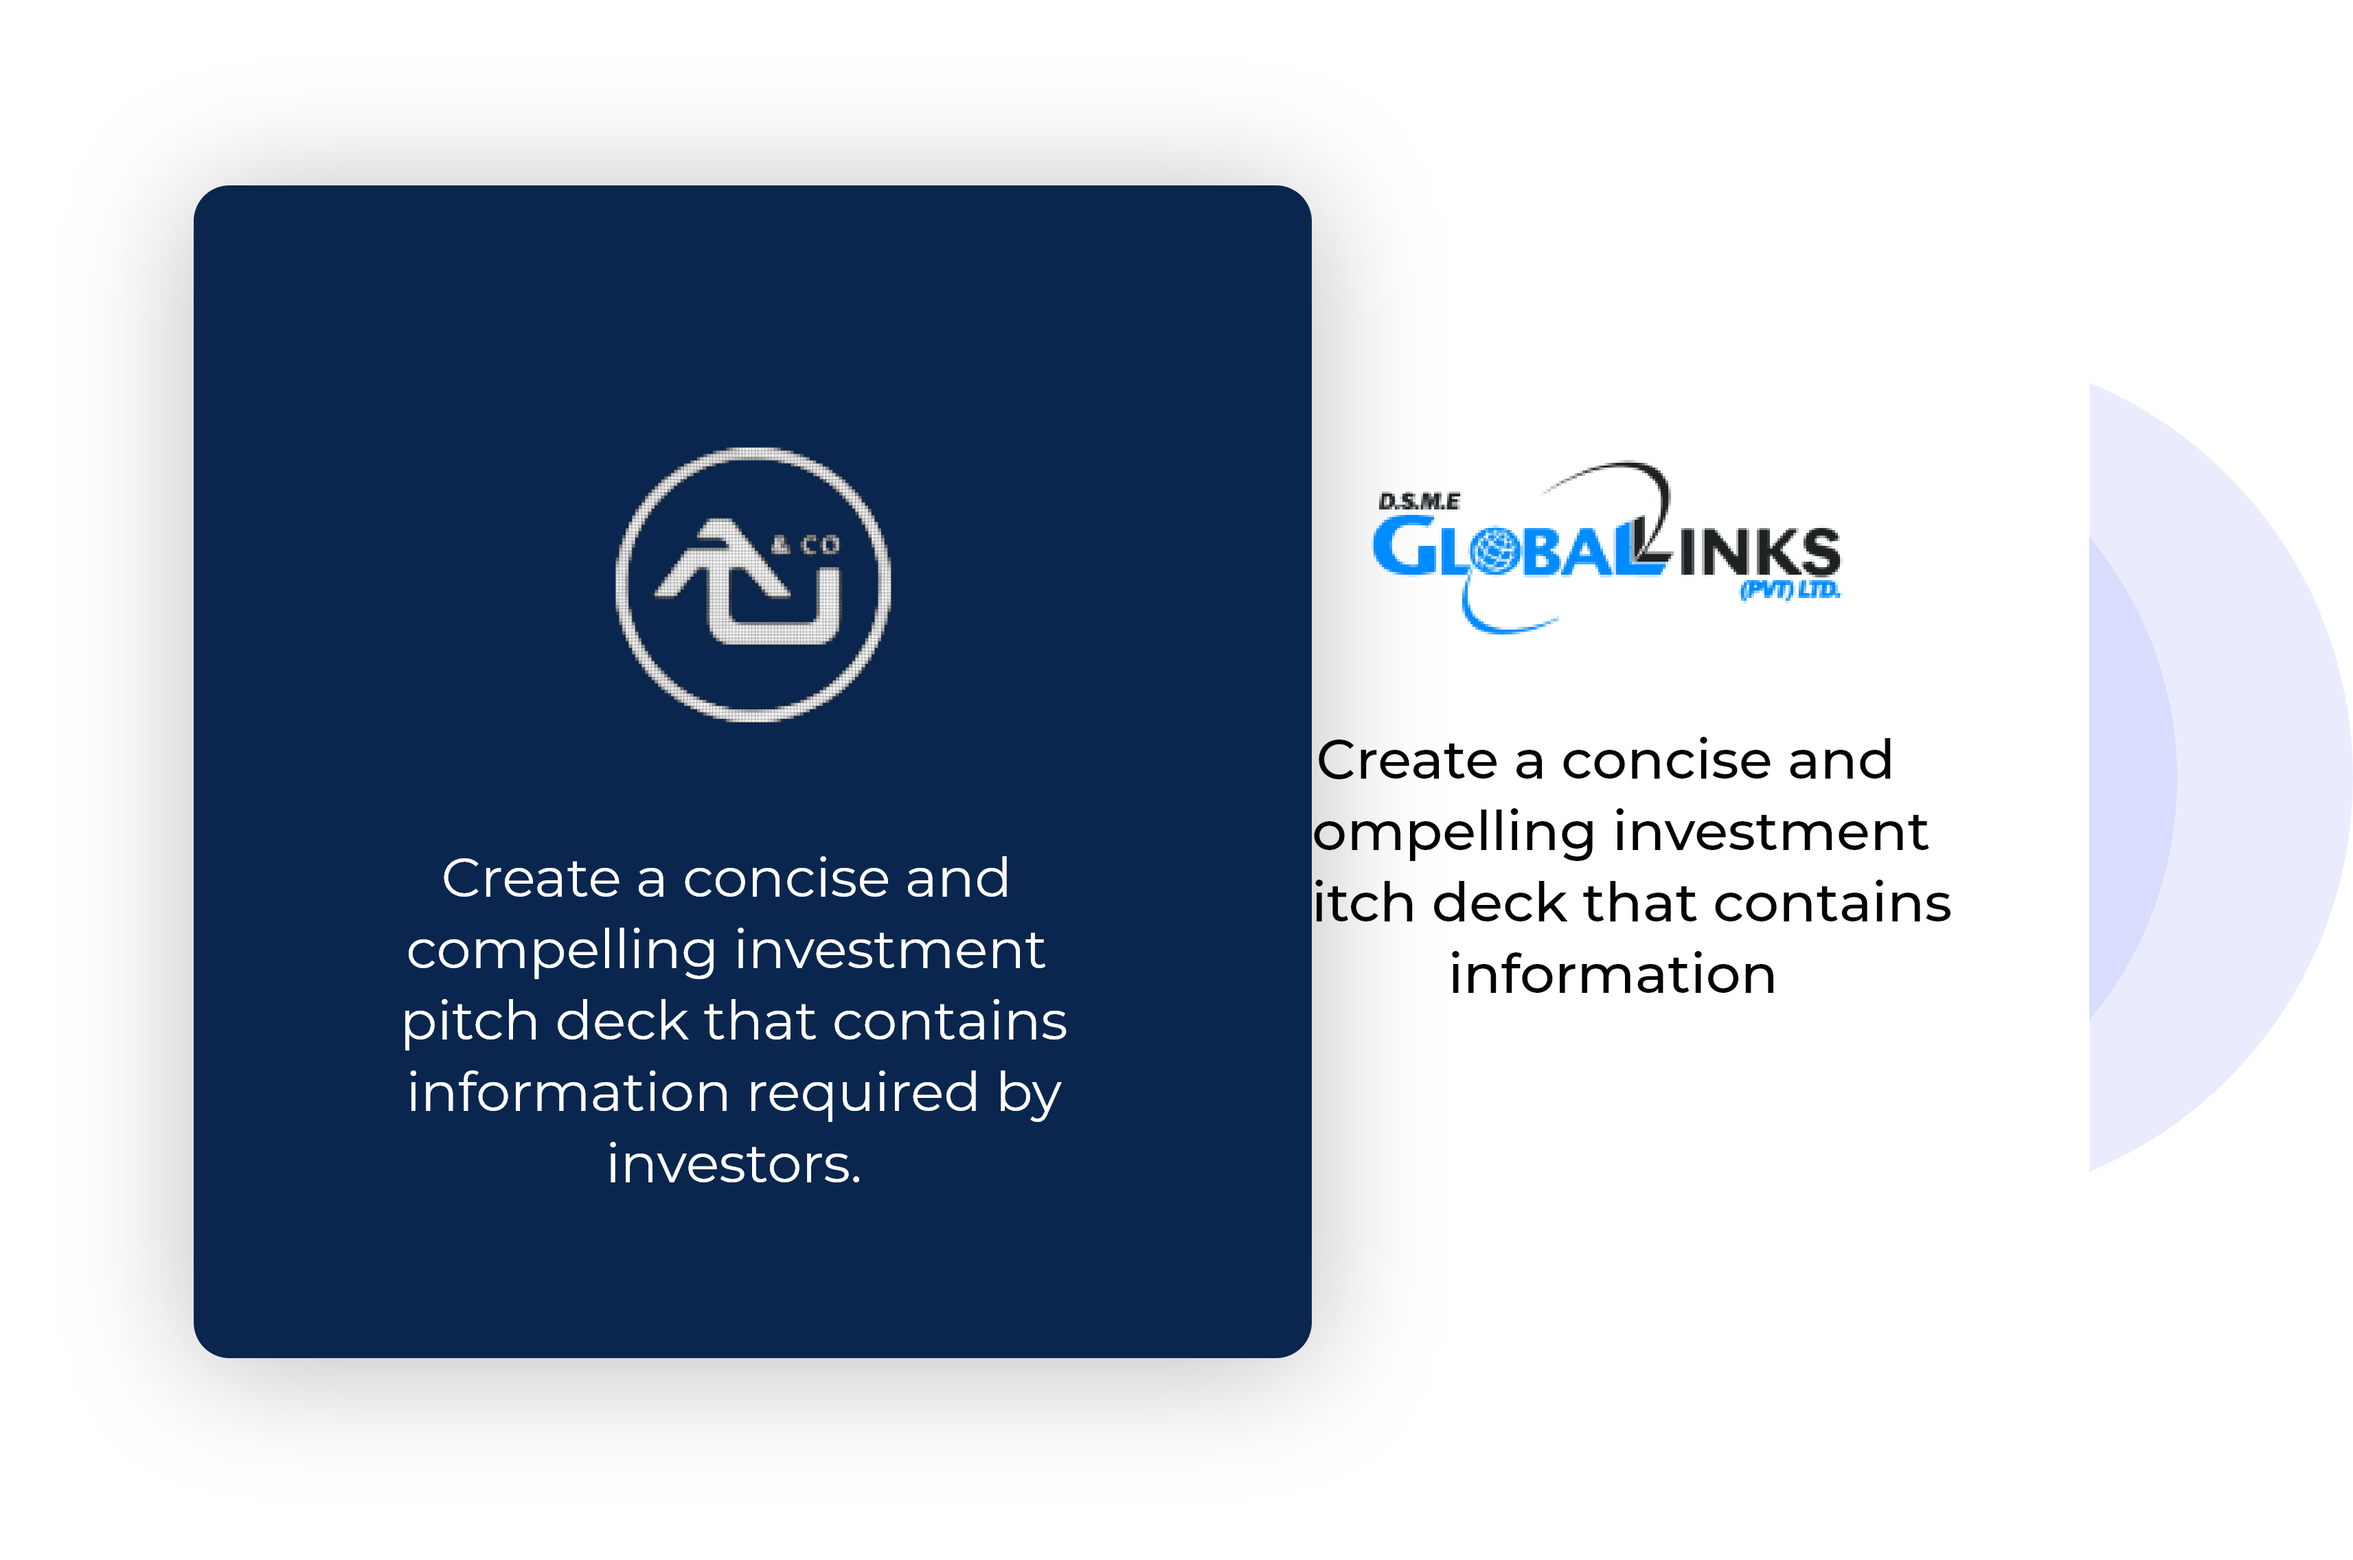
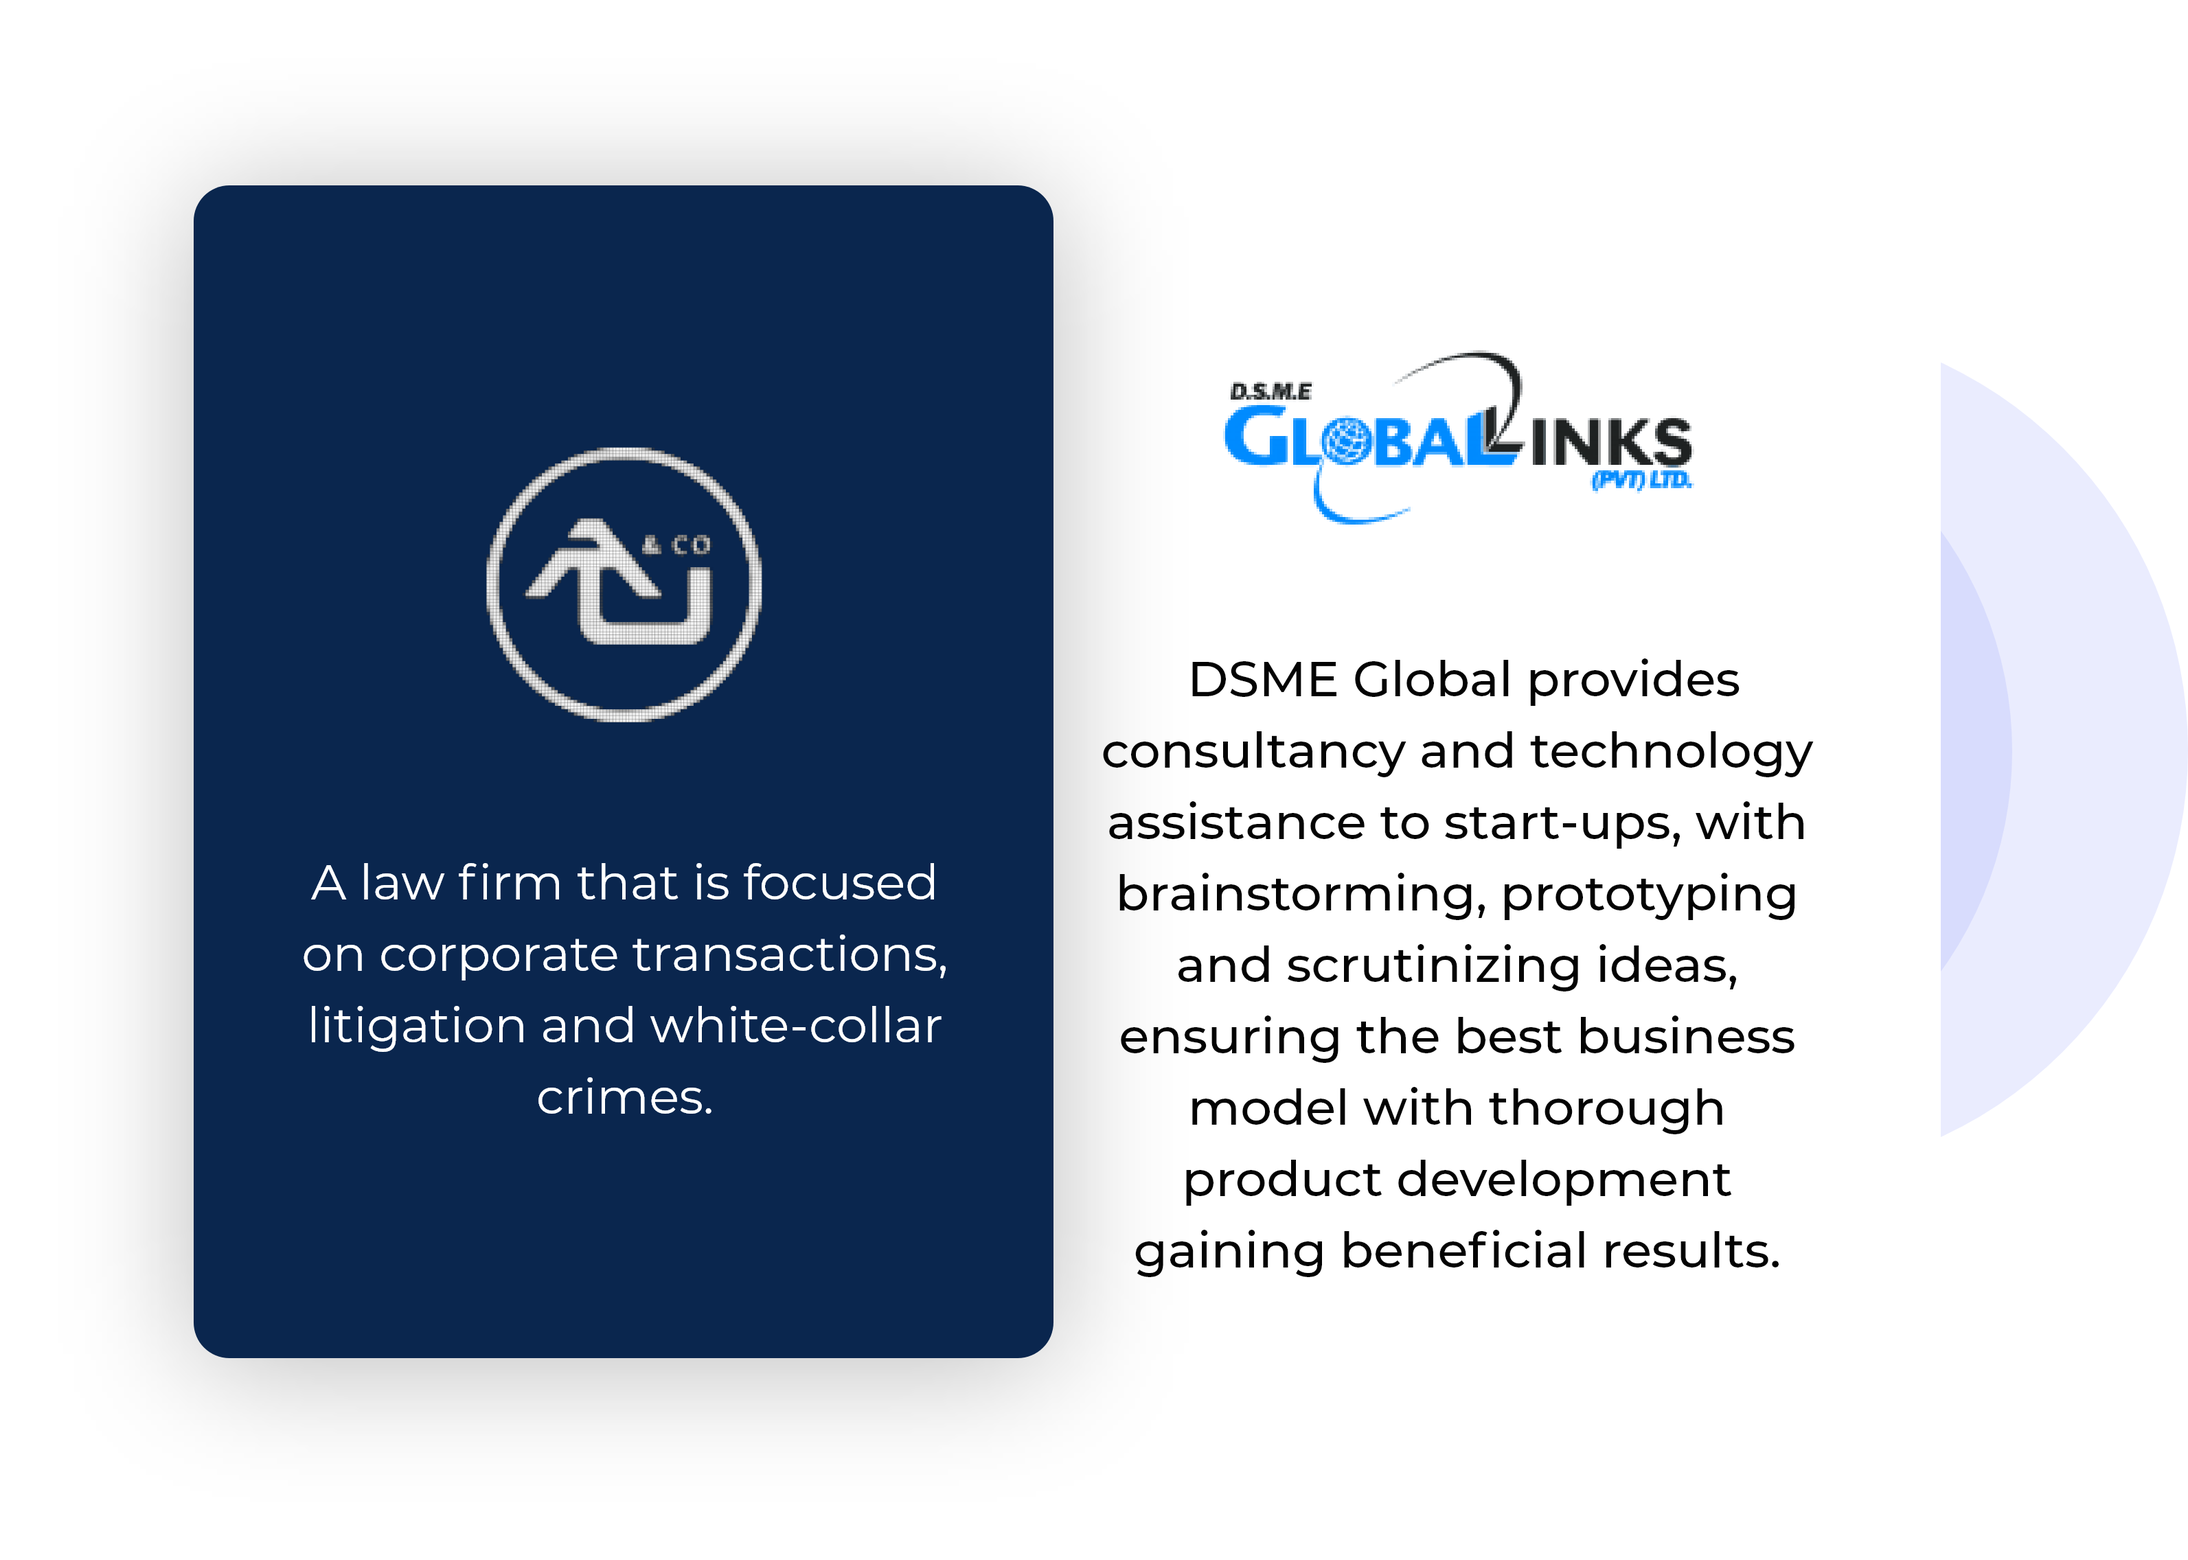
partner section changes

Changed region(s): [[0.1243, 0.0938, 0.839, 0.9062], [0.2175, 0.2812, 0.404, 0.4688], [0.0621, 0.125, 0.0932, 0.875]]

diff --git a/src/Screens/HomeScreen.js b/src/Screens/HomeScreen.js
@@ -1523,7 +1523,7 @@ export default function HomeScreen() {
           </div>
         </div>
 
-        <div className="container">
+        <div className="container" style={{ minHeight: "fit-content" }}>
           <div className="container__our__team">
             <div className="container__our__team__heading">Our Clients</div>
             <div className="container__our__client">
@@ -1546,11 +1546,23 @@ export default function HomeScreen() {
                 contains information required by investors.
               </div>
             </div>
-            <img
-              src={partner}
-              alt="partner"
-              className="container__partner__right"
-            />
+            <div className="container__partner__right">
+              <div className="container__partner__right__overlay">
+                <a
+                  href="http://auclaw.com/"
+                  className="container__partner__right__overlay__link"
+                ></a>
+                <a
+                  href="http://dsmeglobal.com"
+                  className="container__partner__right__overlay__link"
+                ></a>
+              </div>
+              <img
+                src={partner}
+                alt="partner"
+                className="container__partner__right__img"
+              />
+            </div>
           </div>
         </div>
       </div>

diff --git a/src/Styles/App.scss b/src/Styles/App.scss
@@ -1567,17 +1567,34 @@ input:-webkit-autofill:active {
   align-items: center;
   width: 100%;
   max-width: 1440px;
-  margin: 0px auto;
+  margin: 0em auto;
   padding: 3em;
 }
 .container__partner__left {
-  width: 50%;
+  width: 45%;
   height: 100%;
   display: flex;
   flex-direction: column;
 }
 .container__partner__right {
+  width: 55%;
+  position: relative;
+}
+.container__partner__right__img {
+  width: 100%;
+  height: 100%;
+}
+.container__partner__right__overlay {
+  position: absolute;
+  top: 0px;
+  left: 0px;
+  width: 100%;
+  height: 100%;
+  display: flex;
+}
+.container__partner__right__overlay__link {
   width: 50%;
+  height: 100%;
 }
 .container__partner__left__heading {
   font-size: 28px;
@@ -1782,10 +1799,11 @@ input:-webkit-autofill:active {
   .container__partner {
     flex-direction: column;
     padding: 0em 2em;
+    margin: 2em 0em;
   }
   .container__partner__left {
     width: 100%;
-    height: 200px;
+    height: 100px;
     text-align: center;
     align-items: center;
   }
